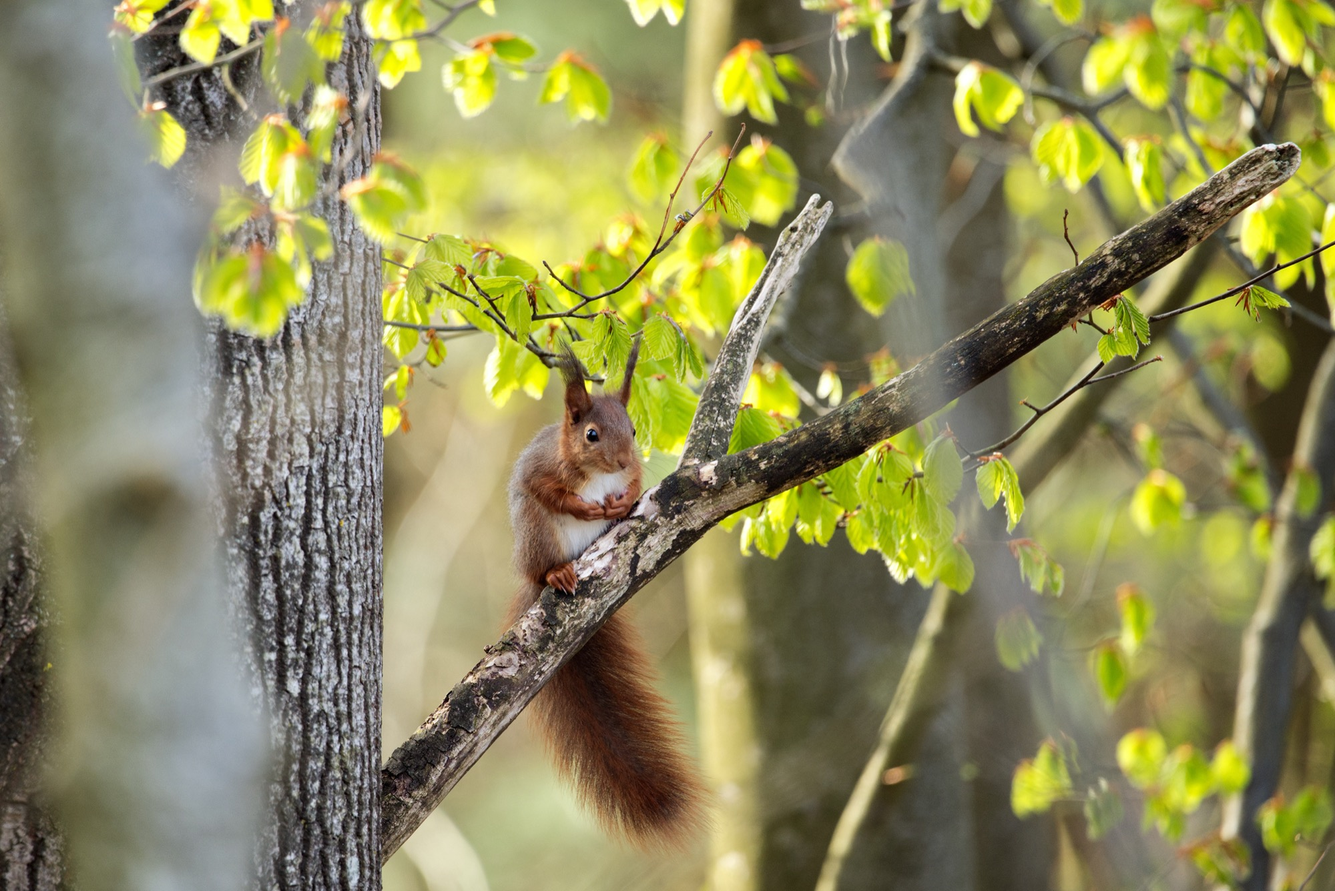
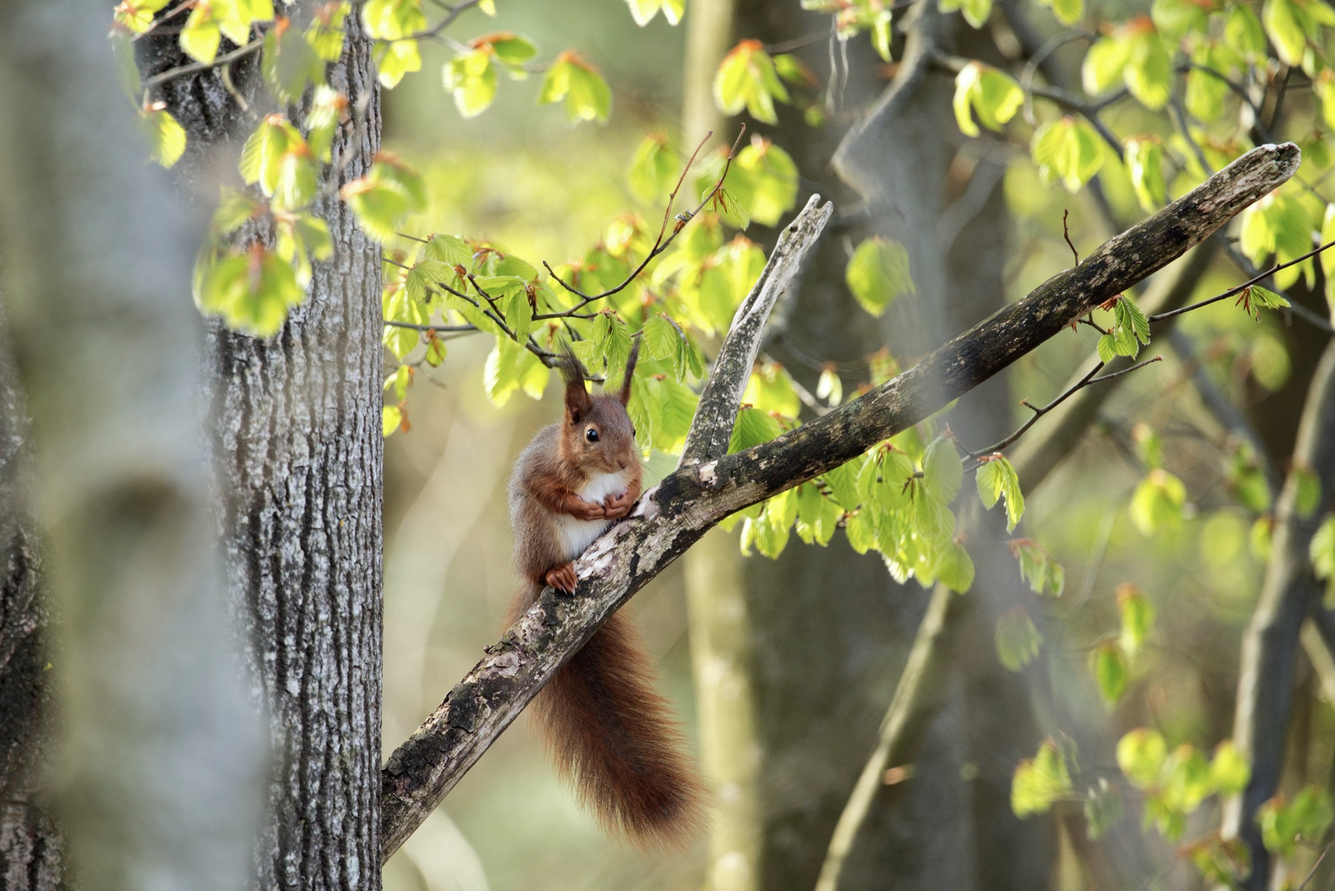
Changes squirrel pic

diff --git a/photo/index.html b/photo/index.html
@@ -1062,10 +1062,10 @@
 							
 							style="filter: blur(25px);"
 							
[2 lines of base64/hex data omitted]
 							
 							class="lazy"
-							data-src="https://falko.in/photo/images/eichhoernchen_hu18b364599d5c310c86a295992c1c9213_600314_600x300_fit_q90_lanczos.jpeg"
+							data-src="https://falko.in/photo/images/eichhoernchen_hu18b364599d5c310c86a295992c1c9213_589737_600x300_fit_q90_lanczos.jpeg"
 						
 
 						
